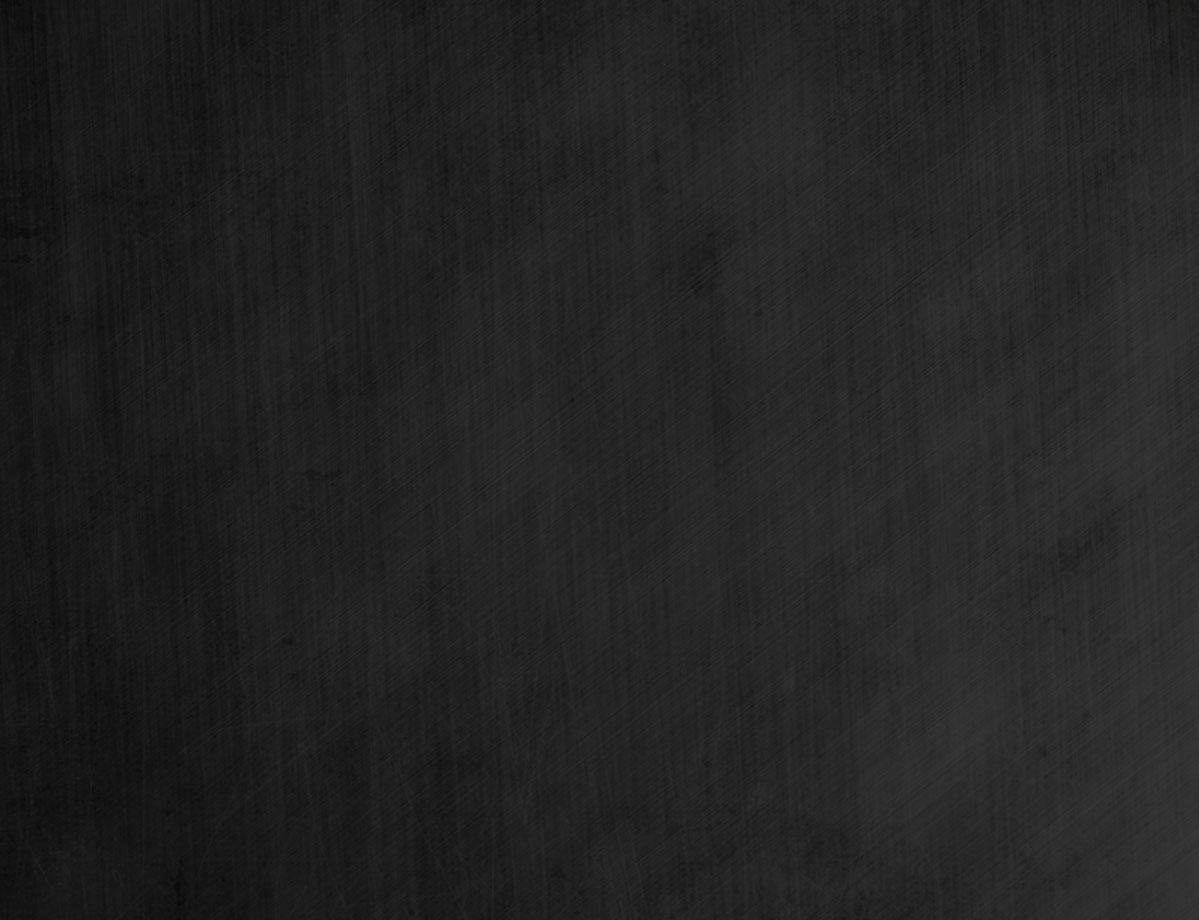
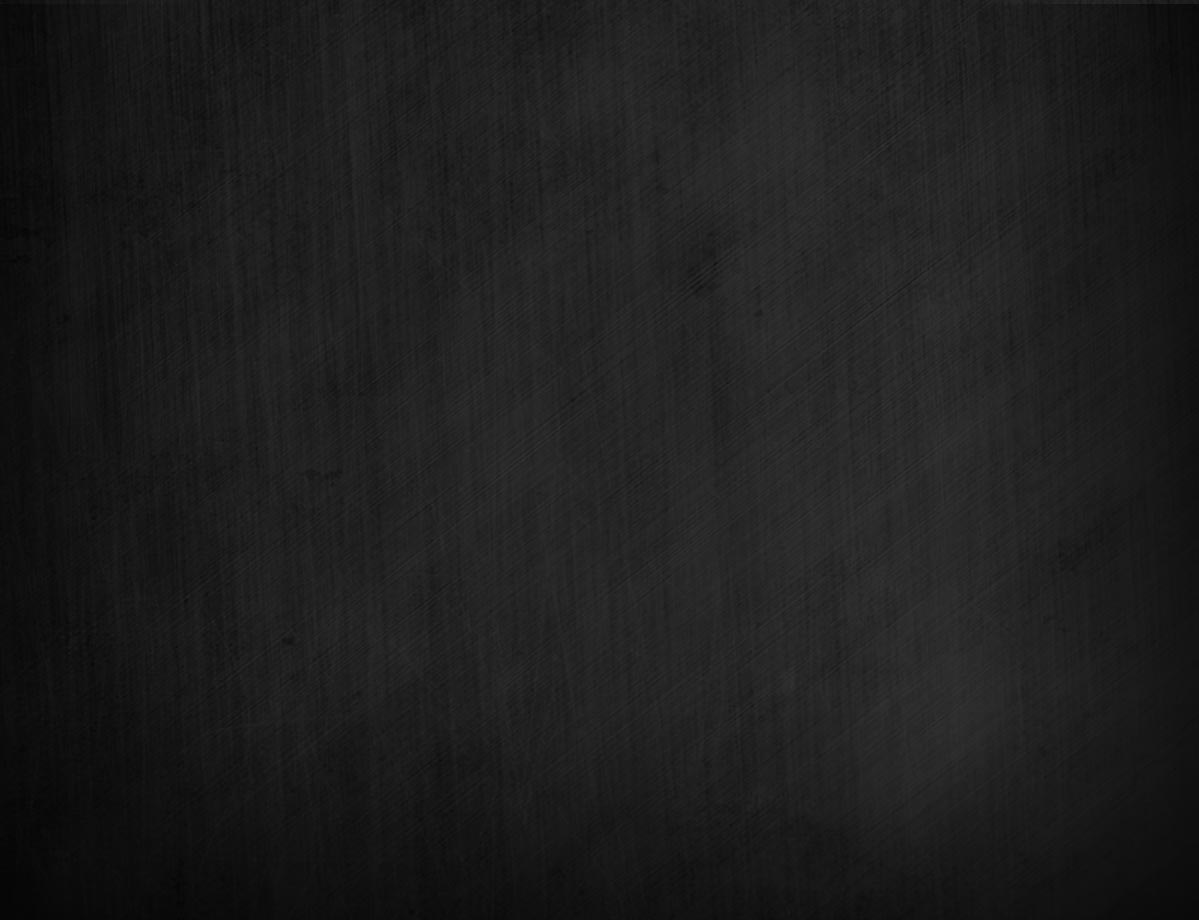
misc updates related to redo

Changed region(s): [[0.8332, 0.0913, 1.0, 1.0]]

diff --git a/css/page-backgrounds.css b/css/page-backgrounds.css
@@ -6,8 +6,7 @@
 
 
 body {
-	background: url(../images/bg.jpg) center top #151414 no-repeat;
-	background-size: cover;
+	background: url(../images/bg.jpg) center top #000000 no-repeat;
 }
 
 #page-wrapper {
@@ -30,9 +29,9 @@ background: linear-gradient(top, rgba(43,43,43,0.77) 0%,rgba(43,43,43,0.77) 100%
 }
 
 #main-wrapper {
-	border-left: 1px solid #8b8a8a;
-	border-right: 1px solid #8b8a8a;
-	border-bottom: 1px solid #8b8a8a;
+	border-left: 3px solid #79797B;
+	border-right: 3px solid #79797B;
+	border-bottom: 3px solid #79797B;
 }
 
 #main {

diff --git a/css/html-reset.css b/css/html-reset.css
@@ -70,9 +70,8 @@ body {
 
 #skip-to-nav,
 #page {
-  /* Use a 14px base font size with a 21px line height */
-  font-size: 0.875em; /* 16px x .875 = 14px */
-  line-height: 1.5em; /* 14px x 1.5 = 21px */
+  font-size: 1.125em; /* 16px x 1.125 = 18px */
+  line-height: 1.5em;
 }
 
 
@@ -86,7 +85,7 @@ select,
 option,
 legend,
 fieldset {
-  font-family: Arial, Helvetica, "Nimbus Sans L", sans-serif;
+  font-family: "MisoRegular", Verdana, Tahoma, "DejaVu Sans", sans-serif;
 }
 
 pre,

diff --git a/css/layout-fixed.css b/css/layout-fixed.css
@@ -182,16 +182,20 @@ margin-left: auto;
 	position: absolute;
 	z-index: -9999;
 	top: 25px;
-	width: 100%;
+	left: 50%;
+	margin-left: -480px;
+	width: 960px;
 	height: 689px;
 	overflow: hidden;
 	text-align: center;
 }
 
+/*
 #block-views-background-image-block img, #views_slideshow_cycle_teaser_section_background_image-block, #views_slideshow_cycle_teaser_section_background_image-block .views_slideshow_cycle_slide {
 	width: 100% !important;
 	height: auto;
 }
+*/
 
 
 

diff --git a/css/navigation.css b/css/navigation.css
@@ -37,7 +37,8 @@ ul.menu li a, ul.links li a {
 }
 
 #navigation ul.links li a {
-	font-weight: bold;
+	font-weight: normal;
+	font-family: "MisoBold";
 }
 
 #navigation ul.links li.active {

diff --git a/css/pages.css b/css/pages.css
@@ -230,7 +230,7 @@ ul.links li {
  * Footer
  */
 .region-footer {
-  font-size: 80%;
+  font-size: 87%;
 }
 
 /*
